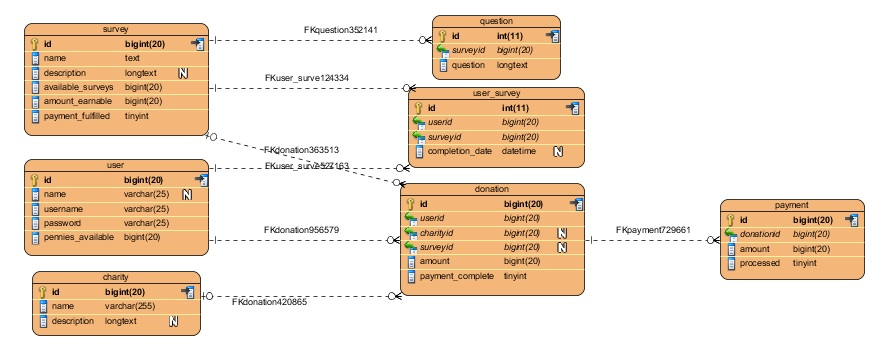
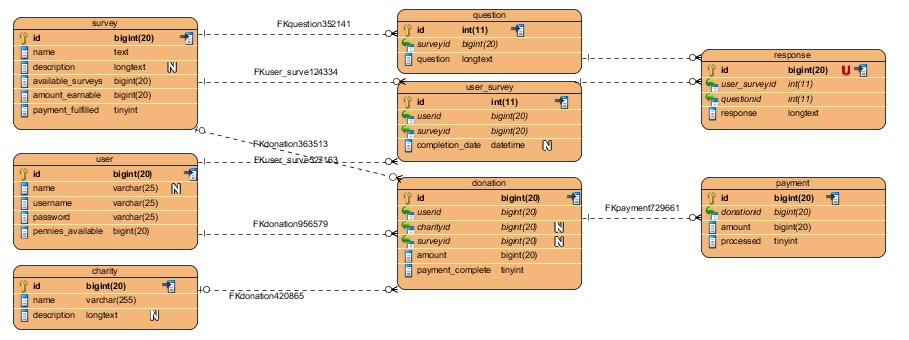
add responses, update e-r

diff --git a/Models/survey.class.php b/Models/survey.class.php
@@ -5,7 +5,7 @@ class Survey extends ModelRecord{
   public static function display_create_form(){
     echo "<form action='../../Controllers/survey_controller.class.php?action=save' method='post'>";
     echo "Name: <input type='text' name='name' /><br />";
-    echo "Description: <textarea name='description' rows='10' columns='30'></textarea><br />";
+    echo "Description: <textarea name='description'></textarea><br />";
     echo "Number of Surveys Available: <input type='text' name='available_surveys' /><br />";
     echo "Amount Earnable per Survey: <input type='text' name='amount_earnable' /><br />";
     echo "<input type='submit' value='Save' />";
@@ -16,7 +16,7 @@ class Survey extends ModelRecord{
     echo "<form action='../../Controllers/survey_controller.class.php?action=update' method='post'>";
     echo "<input type='hidden' name='id' value=".$this->id." />";
     echo "Name: <input type='text' name='name' value=".$this->name." /><br />";
-    echo "Description: <textarea name='description' rows='10' columns='30'>".$this->description."</textarea><br />";
+    echo "Description: <textarea name='description'>".$this->description."</textarea><br />";
     echo "Number of Surveys Available: <input type='text' name='available_surveys' value=".$this->available_surveys." /><br />";
     echo "Amount Earnable per Survey: <input type='text' name='amount_earnable' value=".$this->amount_earnable." /><br />";
     echo "<input type='submit' value='Update' />";

diff --git a/Models/response.class.php b/Models/response.class.php
@@ -1,0 +1,26 @@
+<?php
+
+class Response extends ModelRecord{
+
+  public static function display_create_form(){
+    echo "<form action='../../Controllers/response_controller.class.php?action=save' method='post'>";
+    echo "User Survey ID: <input type='text' name='user_surveyid' /><br />";
+    echo "Question ID: <input type='text' name='questionid' /><br />";
+    echo "Response: <textarea name='response'></textarea><br />";
+    echo "<input type='submit' value='Save' />";
+    echo "</form>";
+  }
+
+  public function display_edit_form(){
+    echo "<form action='../../Controllers/response_controller.class.php?action=update' method='post'>";
+    echo "<input type='hidden' name='id' value=".$this->id." />";
+    echo "User Survey ID: <input type='text' name='user_surveyid' value='".$this->surveyid."' /><br />";
+    echo "Question ID: <input type='text' name='questionid' value='".$this->questionid."' /><br />";
+    echo "Response: <textarea name='response'>".$this->response."</textarea><br />";
+    echo "<input type='submit' value='Update' />";
+    echo "</form>";
+  }
+
+}
+
+?>

diff --git a/Models/charity.class.php b/Models/charity.class.php
@@ -5,7 +5,7 @@ class Charity extends ModelRecord{
   public static function display_create_form(){
     echo "<form action='../../Controllers/charity_controller.class.php?action=save' method='post'>";
     echo "Name: <input type='text' name='name' /><br />";
-    echo "Description: <textarea name='description' rows='10' cols='40'></textarea><br />";
+    echo "Description: <textarea name='description'></textarea><br />";
     echo "<input type='submit' value='Save' />";
     echo "</form>";
   }
@@ -14,7 +14,7 @@ class Charity extends ModelRecord{
     echo "<form action='../../Controllers/charity_controller.class.php?action=update' method='post'>";
     echo "<input type='hidden' name='id' value=".$this->id." />";
     echo "Name: <input type='text' name='name' value=".$this->name." /><br />";
-    echo "Description: <textarea name='description' rows='10' cols='40'>".$this->description."</textarea><br />";
+    echo "Description: <textarea name='description'>".$this->description."</textarea><br />";
     echo "<input type='submit' value='Update' />";
     echo "</form>";
   }

diff --git a/Views/Response/delete.php b/Views/Response/delete.php
@@ -1,0 +1,9 @@
+<?php
+include '../../Base.class.php';
+include '../../Models/response.class.php';
+include '../../Controllers/response_controller.class.php';
+
+echo "<h1>RESPONSE DELETED!</h1>";
+ResponseController::render('index');
+
+?>

diff --git a/Views/Response/save.php b/Views/Response/save.php
@@ -1,0 +1,9 @@
+<?php
+include '../../Base.class.php';
+include '../../Models/response.class.php';
+include '../../Controllers/response_controller.class.php';
+
+echo "<h1>RESPONSE CREATED!</h1>";
+ResponseController::render('index');
+
+?>

diff --git a/Views/Response/update.php b/Views/Response/update.php
@@ -1,0 +1,9 @@
+<?php
+include '../../Base.class.php';
+include '../../Models/response.class.php';
+include '../../Controllers/response_controller.class.php';
+
+echo "<h1>RESPONSE UPDATED!</h1>";
+ResponseController::render('index');
+
+?>

diff --git a/Views/reports.php b/Views/reports.php
@@ -12,3 +12,5 @@
 <br/>
 <a href="../Controllers/user_survey_controller.class.php?action=index">UserSurvey Index</a>
 <br/>
+<a href="../Controllers/response_controller.class.php?action=index">Response Index</a>
+<br/>

diff --git a/Views/Response/index.php b/Views/Response/index.php
@@ -1,0 +1,8 @@
+<?php
+include '../../Base.class.php';
+include '../../Models/response.class.php';
+
+Response::display_index_table();
+echo "<a href='".ROOT_PATH."/Views/reports.php'>Reports</a>"
+
+?>

diff --git a/Controllers/response_controller.class.php b/Controllers/response_controller.class.php
@@ -1,0 +1,11 @@
+<?php
+
+include '../Base.class.php';
+include '../Models/response.class.php';
+
+class ResponseController extends ControllerRecord{
+
+}
+
+new ResponseController();
+?>

diff --git a/Views/Response/edit.php b/Views/Response/edit.php
@@ -1,0 +1,8 @@
+<?php
+include '../../Base.class.php';
+include '../../Models/response.class.php';
+
+$response = Response::find($_REQUEST['id']);
+$response->display_edit_form();
+
+?>

diff --git a/Views/Response/create.php b/Views/Response/create.php
@@ -1,0 +1,7 @@
+<?php
+include '../../Base.class.php';
+include '../../Models/response.class.php';
+
+Response::display_create_form();
+
+?>
